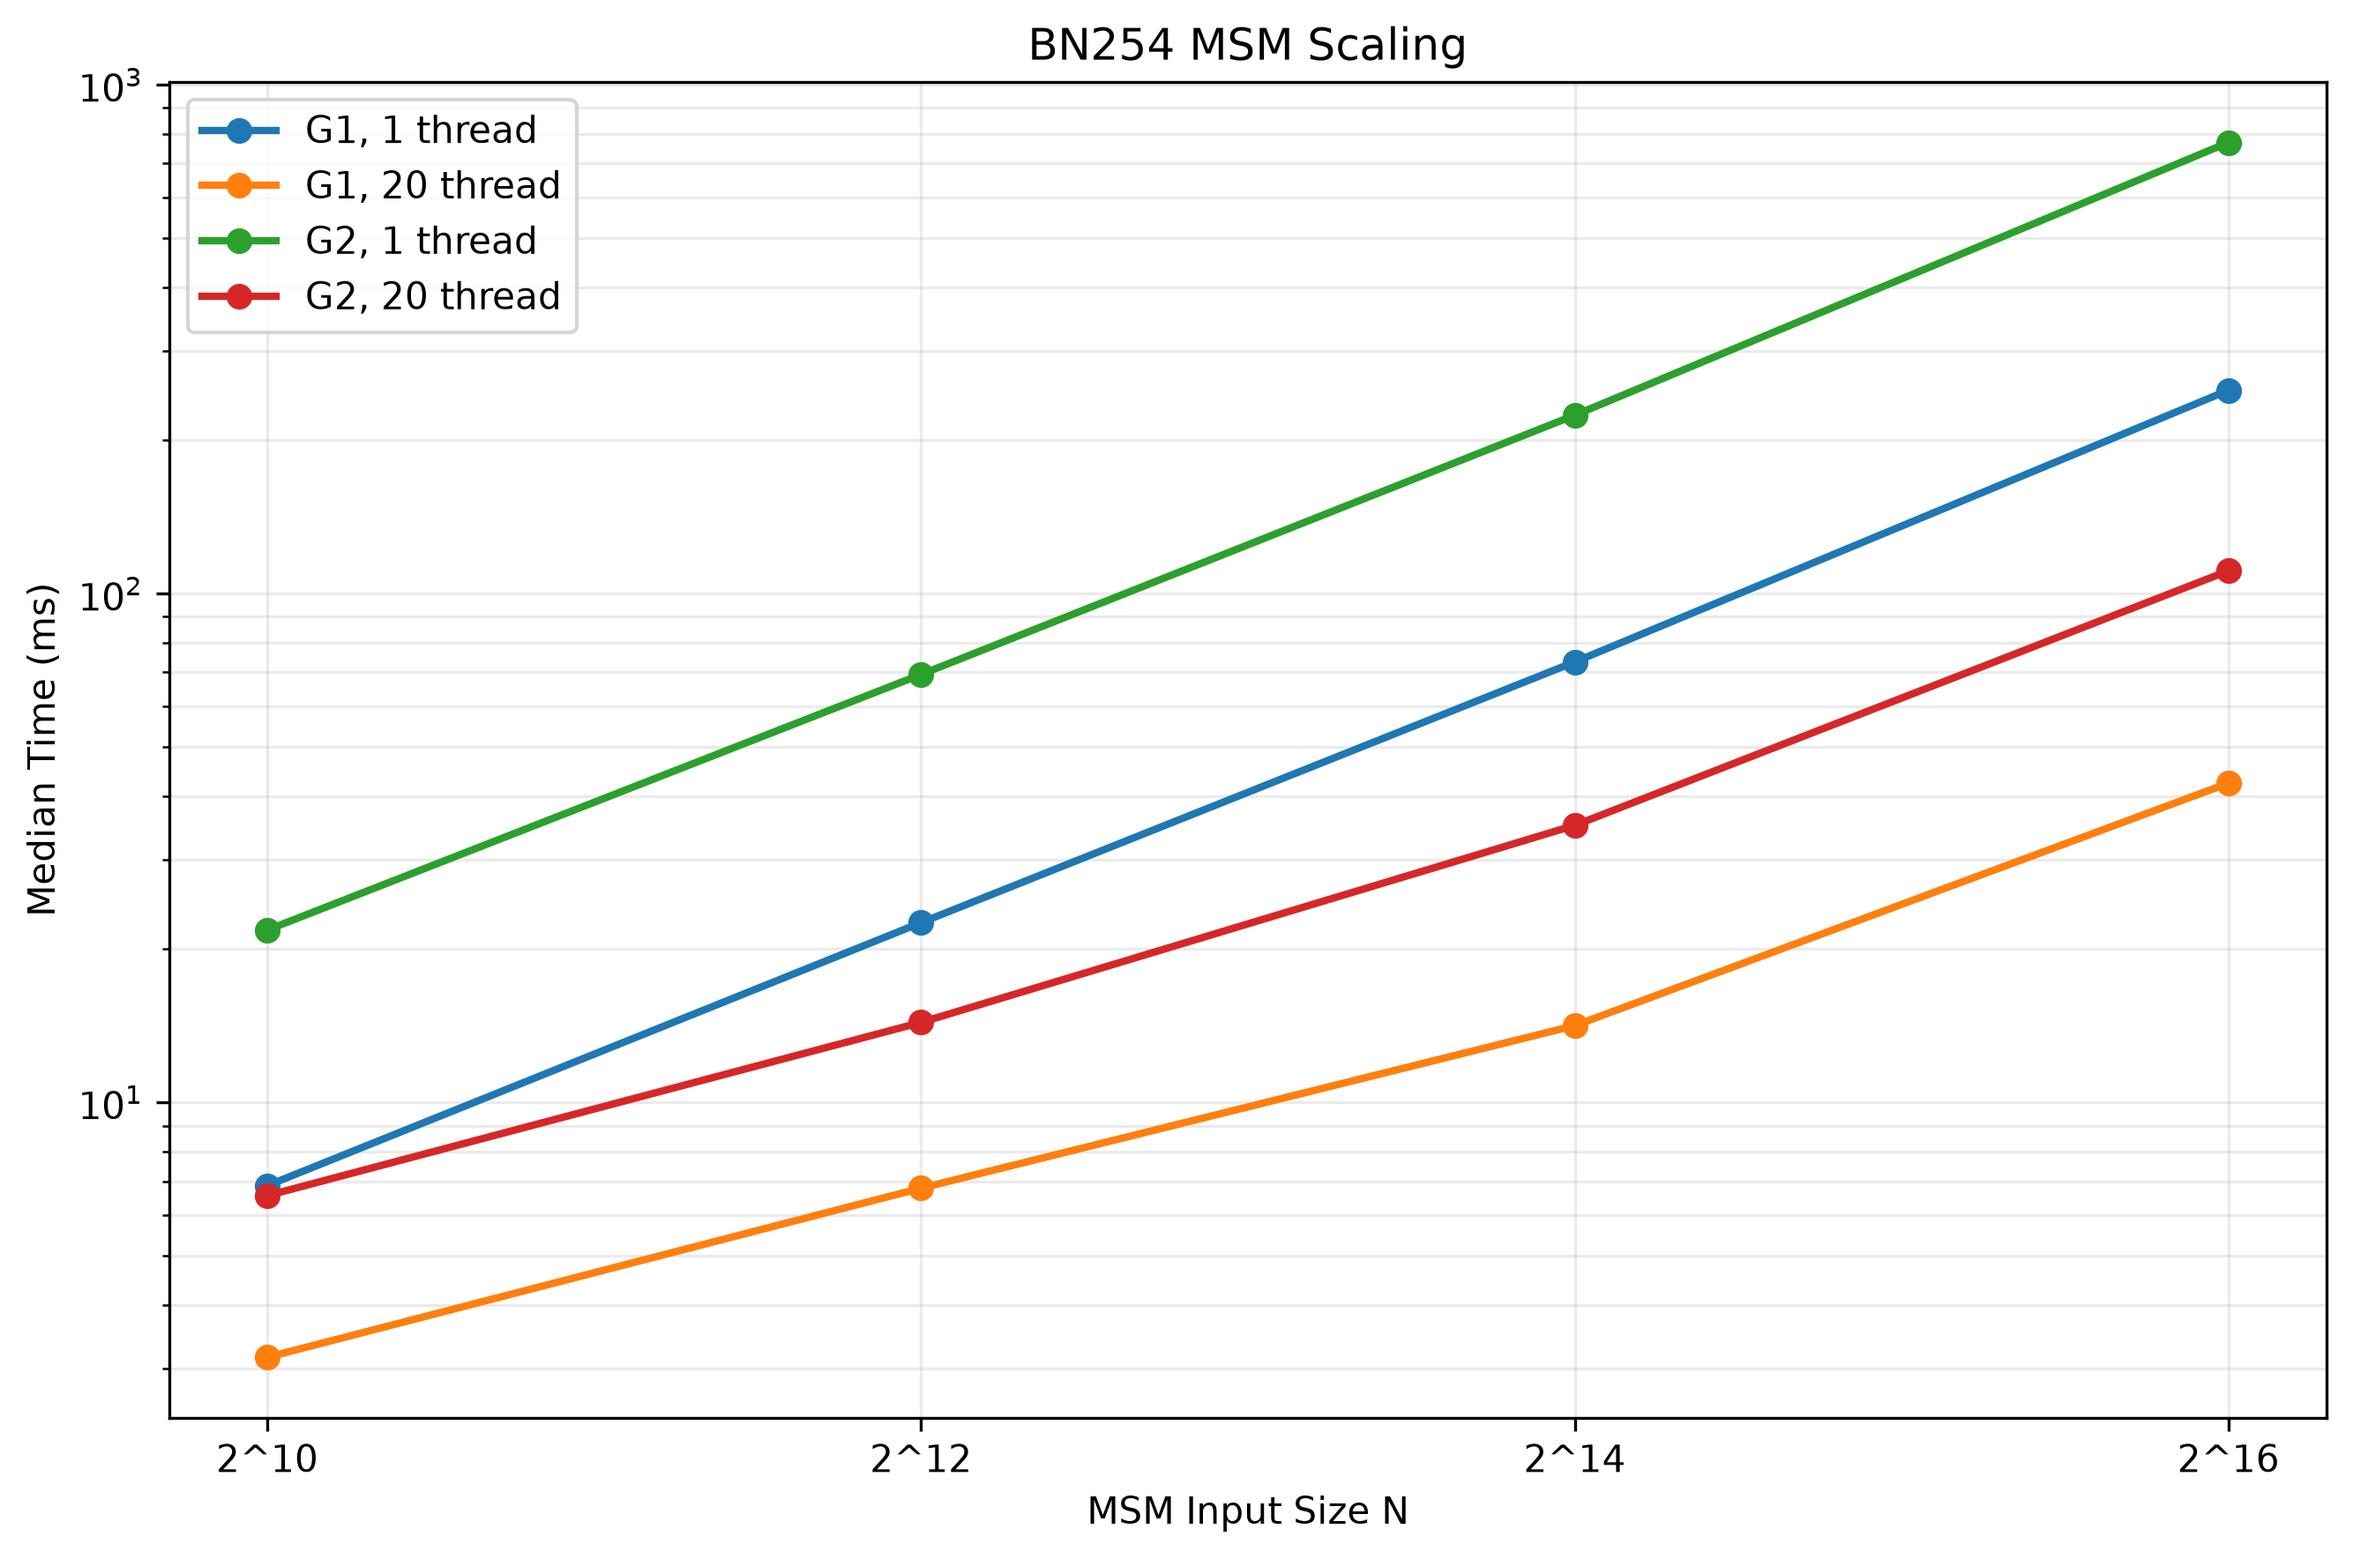
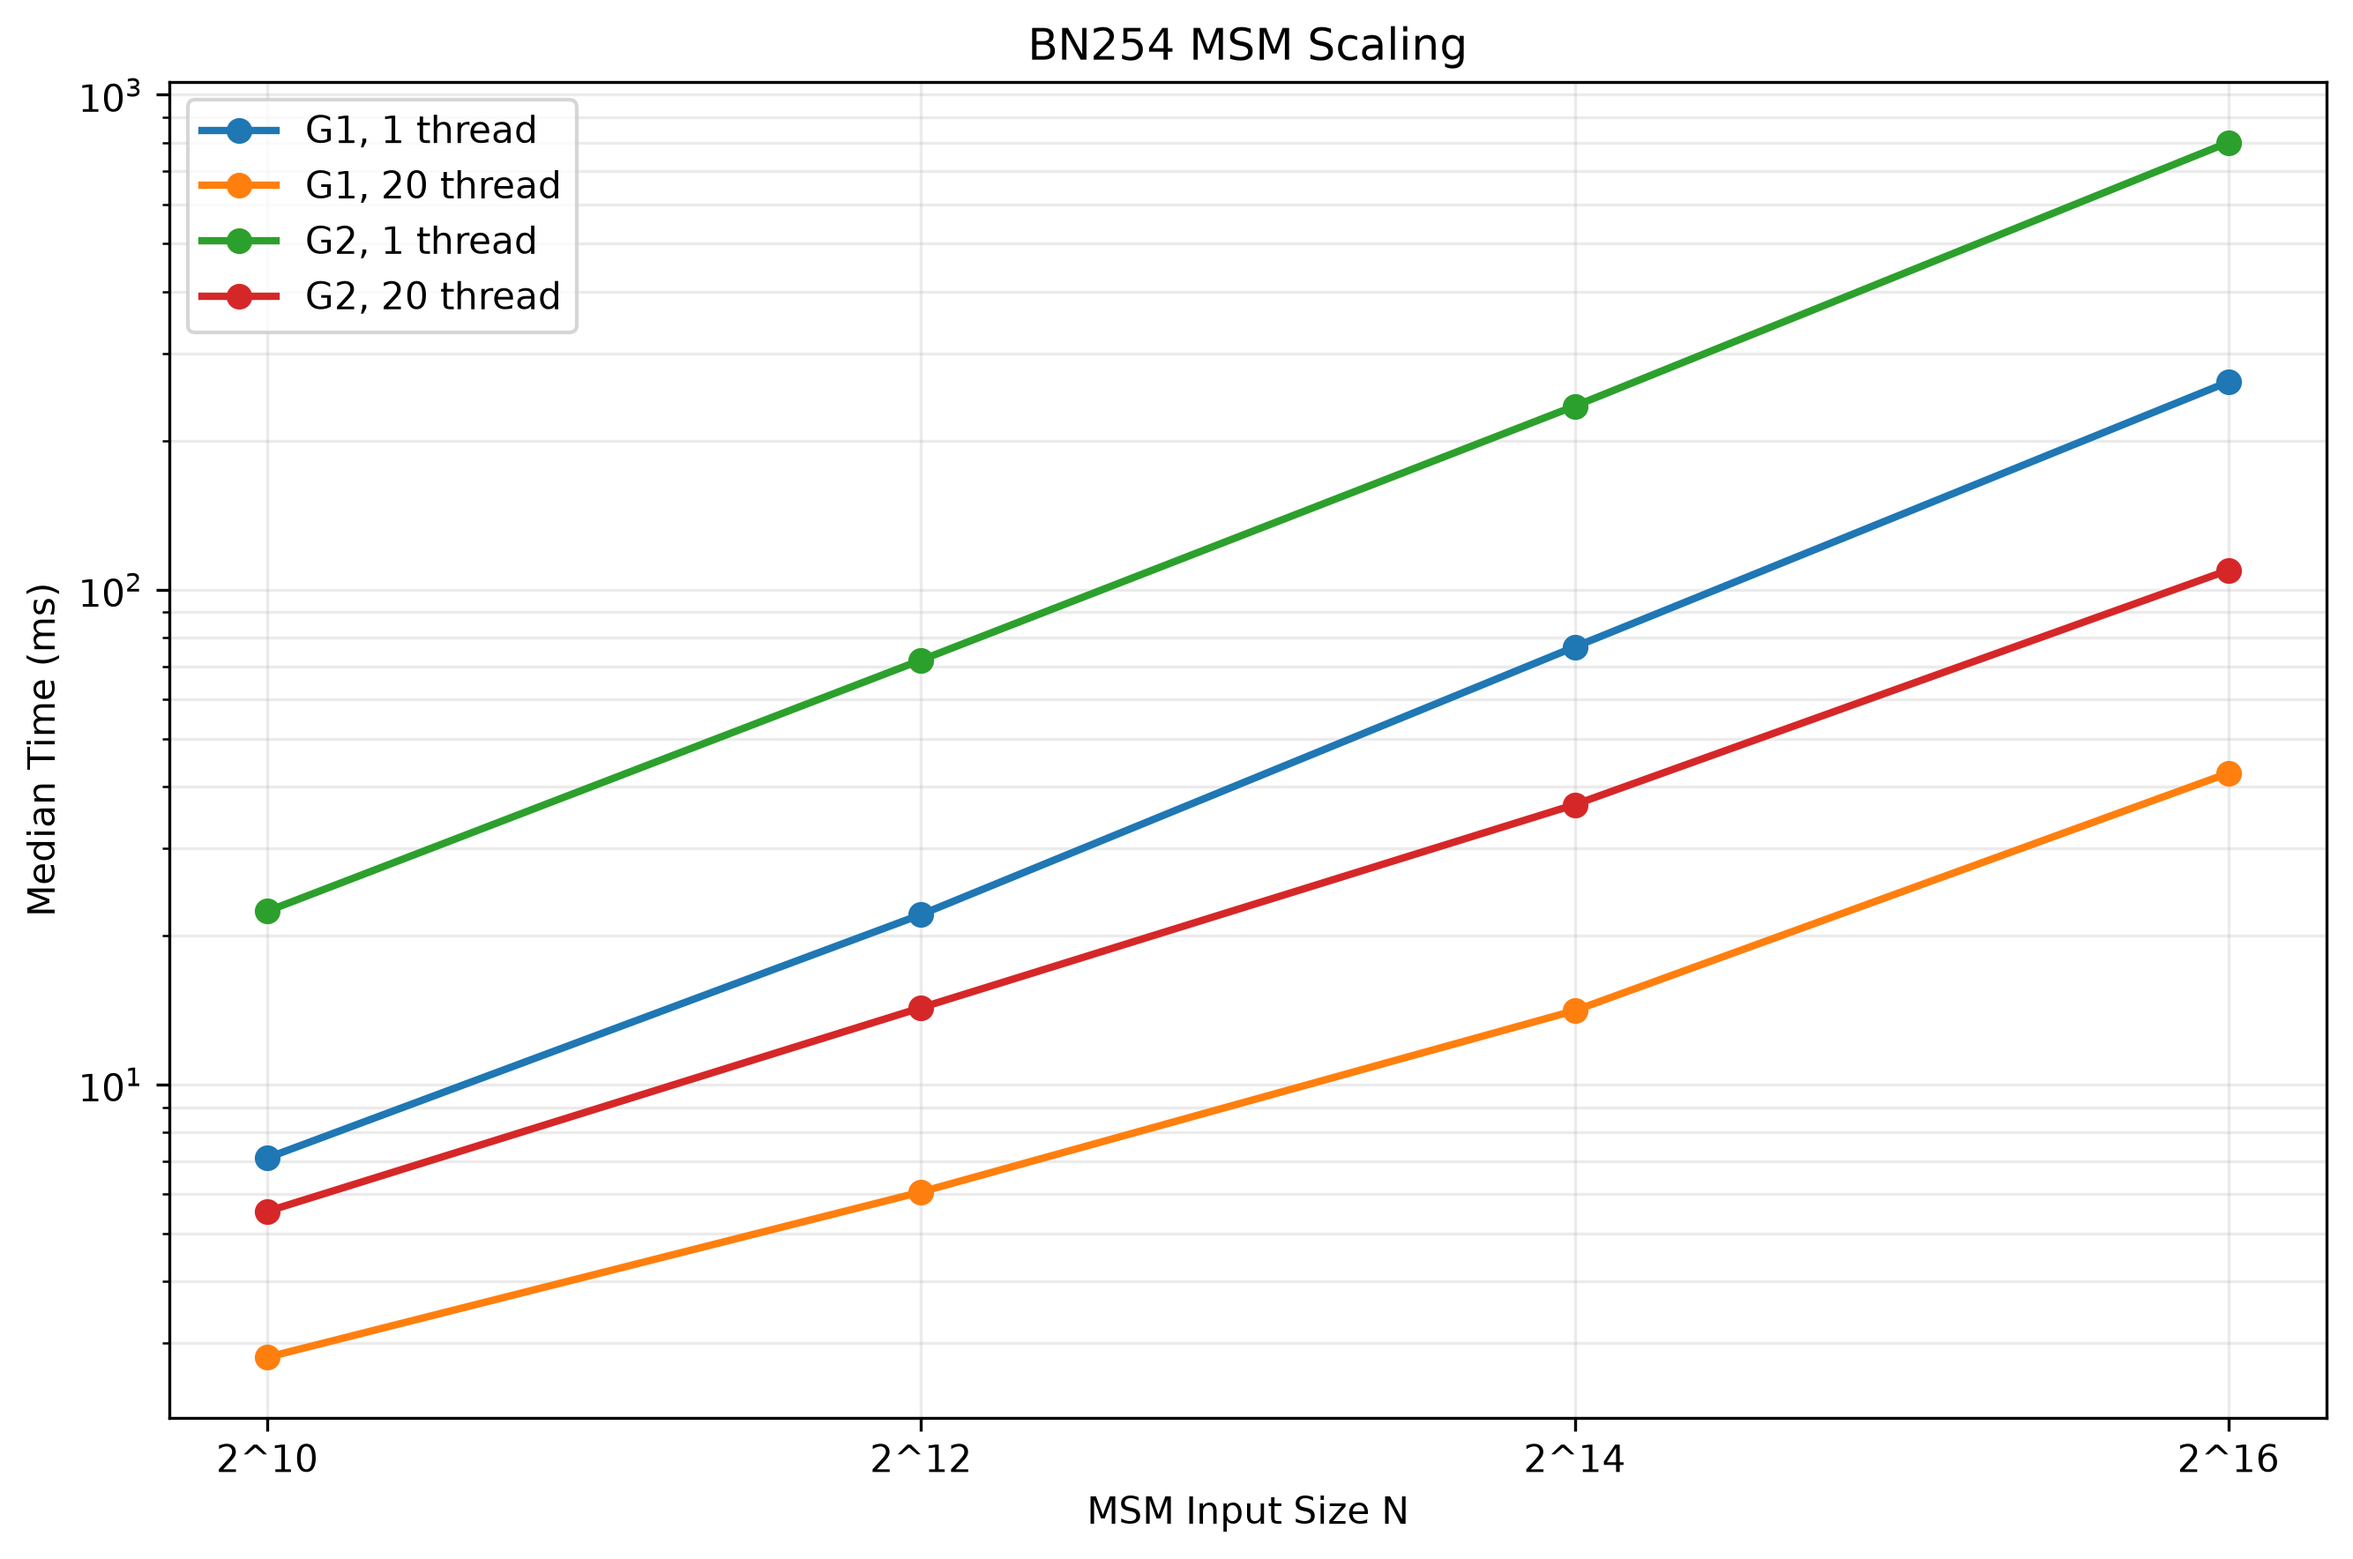
update

diff --git a/docs/msm_analysis.md b/docs/msm_analysis.md
@@ -68,22 +68,22 @@ The current measurements are:
 
 | Group | Threads |      N | Median (ms) |
 | ----- | ------: | -----: | ----------: |
-| G1    |       1 |  1,024 |       6.860 |
-| G1    |       1 |  4,096 |      22.543 |
-| G1    |       1 | 16,384 |      73.341 |
-| G1    |       1 | 65,536 |     250.783 |
-| G1    |      20 |  1,024 |       3.155 |
-| G1    |      20 |  4,096 |       6.781 |
-| G1    |      20 | 16,384 |      14.149 |
-| G1    |      20 | 65,536 |      42.381 |
-| G2    |       1 |  1,024 |      21.804 |
-| G2    |       1 |  4,096 |      69.294 |
-| G2    |       1 | 16,384 |     223.970 |
-| G2    |       1 | 65,536 |     769.406 |
-| G2    |      20 |  1,024 |       6.556 |
-| G2    |      20 |  4,096 |      14.356 |
-| G2    |      20 | 16,384 |      35.015 |
-| G2    |      20 | 65,536 |     110.790 |
+| G1    |       1 |  1,024 |       7.108 |
+| G1    |       1 |  4,096 |      22.051 |
+| G1    |       1 | 16,384 |      76.592 |
+| G1    |       1 | 65,536 |     262.892 |
+| G1    |      20 |  1,024 |       2.811 |
+| G1    |      20 |  4,096 |       6.066 |
+| G1    |      20 | 16,384 |      14.106 |
+| G1    |      20 | 65,536 |      42.584 |
+| G2    |       1 |  1,024 |      22.398 |
+| G2    |       1 |  4,096 |      72.043 |
+| G2    |       1 | 16,384 |     234.917 |
+| G2    |       1 | 65,536 |     800.915 |
+| G2    |      20 |  1,024 |       5.542 |
+| G2    |      20 |  4,096 |      14.296 |
+| G2    |      20 | 16,384 |      36.776 |
+| G2    |      20 | 65,536 |     109.493 |
 
 G2 MSM is consistently more expensive than G1 MSM under the tested
 configurations.
@@ -91,16 +91,15 @@ configurations.
 At 20 threads, the measured G2/G1 ratio is approximately:
 
 ```text
-N = 1,024    → 2.08×
-N = 4,096    → 2.12×
-N = 16,384   → 2.47×
-N = 65,536   → 2.61×
+N = 1,024    → 1.97×
+N = 4,096    → 2.36×
+N = 16,384   → 2.61×
+N = 65,536   → 2.57×
 ```
-
-Thus, the G2 cost difference becomes more pronounced as the MSM workload
-grows.
-
----
+The ratio increases substantially from the smallest workload and remains around
+2.6× at the two largest tested sizes. This indicates that the higher cost of G2
+MSM remains significant under parallel execution, although the ratio does not
+increase monotonically across all tested sizes.
 
 ## 4. Parallel MSM Behavior
 
@@ -108,16 +107,22 @@ The measured 1-thread to 20-thread speedups are:
 
 |      N | G1 Speedup | G2 Speedup |
 | -----: | ---------: | ---------: |
-|  1,024 |      2.17× |      3.33× |
-|  4,096 |      3.32× |      4.83× |
-| 16,384 |      5.18× |      6.40× |
-| 65,536 |      5.92× |      6.95× |
+|  1,024 |      2.53× |      4.04× |
+|  4,096 |      3.64× |      5.04× |
+| 16,384 |      5.43× |      6.39× |
+| 65,536 |      6.17× |      7.31× |
 
 The results show that parallel execution becomes increasingly effective as the
 MSM workload becomes larger.
 
+Both G1 and G2 exhibit stronger speedup at larger input sizes, indicating that
+parallel execution overhead is relatively more significant for small MSM
+workloads.
+
 However, the measured speedups remain far below the ideal 20× scaling
-corresponding to 20 threads.
+corresponding to 20 threads. The results therefore demonstrate substantial
+parallel benefit, but also clear non-linear scaling under the tested
+implementation and hardware.
 
 This indicates that parallel execution is affected by factors beyond the
 amount of arithmetic work, potentially including:
